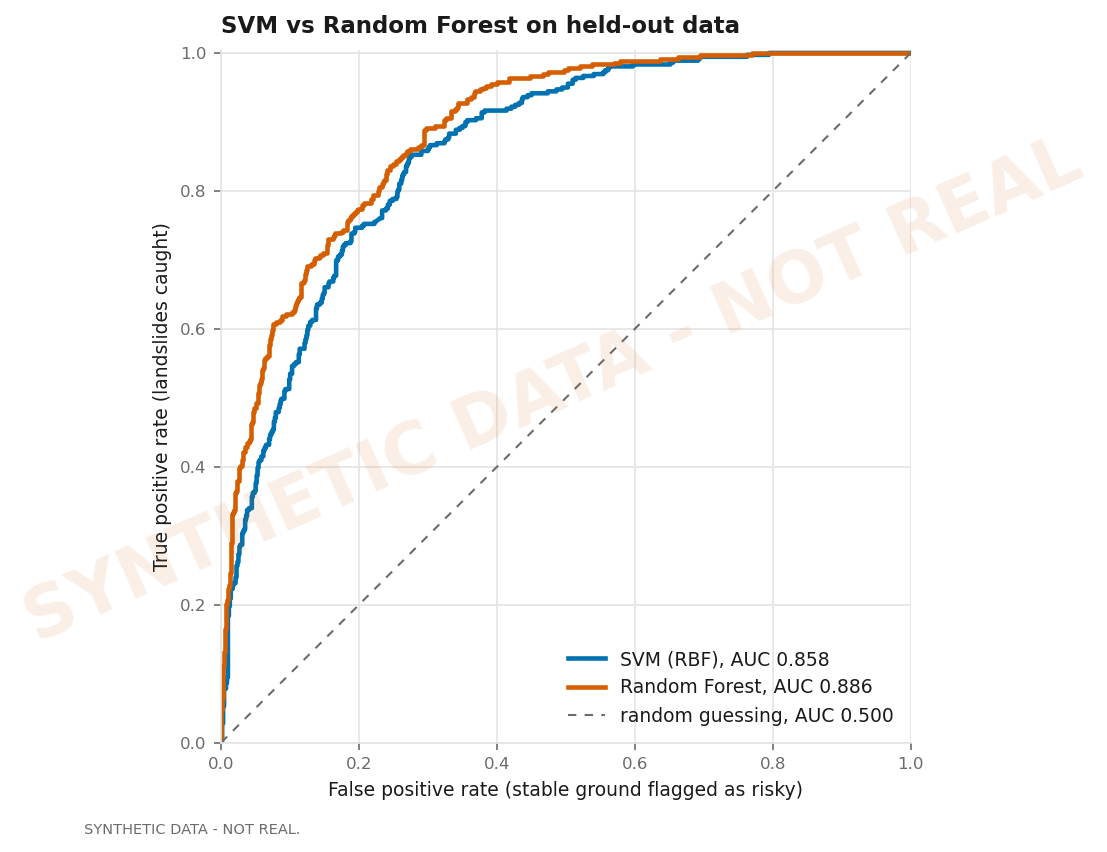
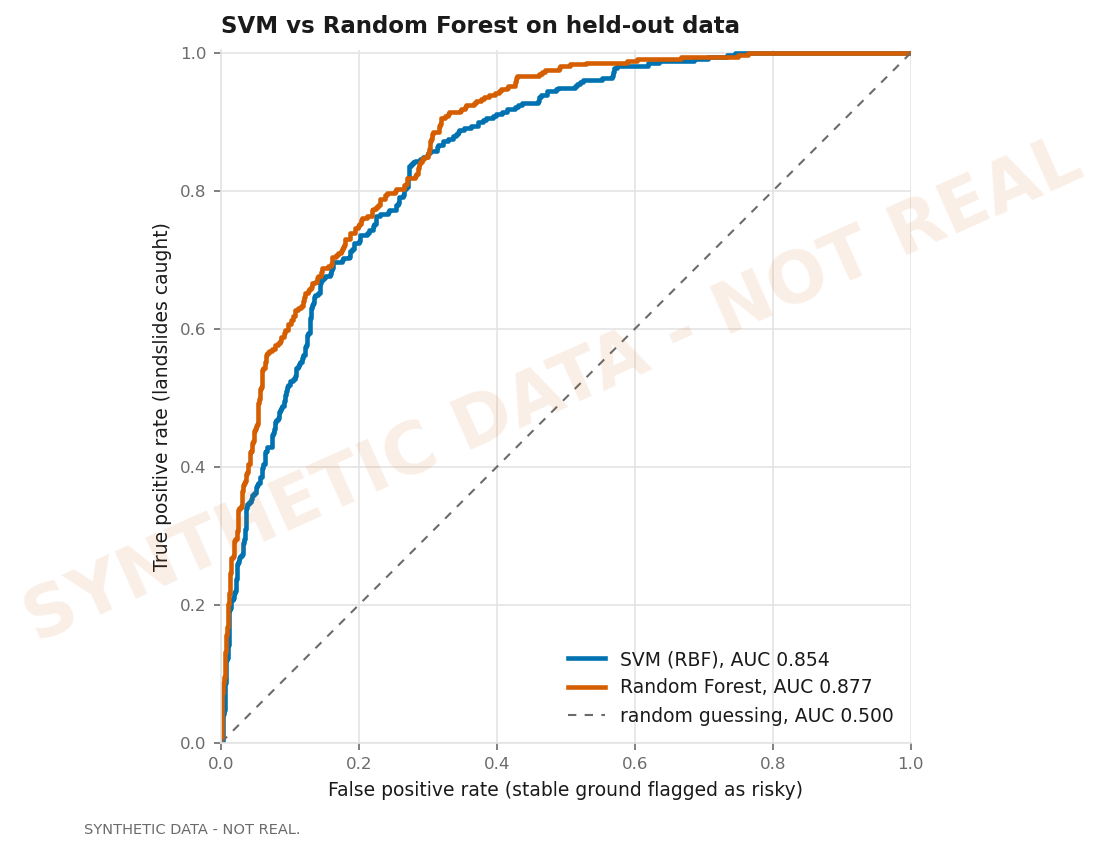
Use the most frequent class as the one-hot reference and retrain
Step 4 now leaves out the most frequent class of each categorical
factor instead of pandas' alphabetically first one, and records the
choice in metadata.json (preprocessing.categorical_reference_levels).
On a whole-state grid sample the old rule measured every land-cover
column against "Bare/sparse vegetation" (8.5 percent of the state) and
pushed lulc_Tree cover to VIF 10.1; with Tree cover as the reference no
land-cover column exceeds 4.7. prepare_for_prediction already aligns by
column name, so prediction is unchanged; demo_map no longer assumes the
first class is the reference. Checked end to end: reference rows give
all-zero dummies, other classes set only their own column.

Synthetic retrain (references Cambisols, Phyllite, Forest): highest VIF
3.29 (was 5.65); SVM test AUC 0.8541, RF 0.8767, gap +0.0224 (95%
interval +0.0082 to +0.0386). RF moved by less than one standard error
and the grid picked different settings, so the shift reads as noise.

Changed region(s): [[0.1843, 0.061, 0.6757, 0.8239], [0.7678, 0.7934, 0.7986, 0.8239], [0.7371, 0.7629, 0.7678, 0.7934]]

diff --git a/src/preprocess.py b/src/preprocess.py
@@ -103,17 +103,47 @@ def engineer_aspect(df: pd.DataFrame) -> pd.DataFrame:
     return df
 
 
-def encode_categoricals(df: pd.DataFrame) -> pd.DataFrame:
-    """Step 2. One dummy column per class, minus one per feature.
+def reference_levels(df: pd.DataFrame) -> dict[str, str]:
+    """The class each categorical feature is measured against: its most frequent class.
 
-    drop_first matters here: keeping every level makes the dummies add up to 1, which is perfect
+    Ties go to the alphabetically first name, so the choice is identical on every run.
+    """
+    references = {}
+    for col in config.active_categorical_features():
+        if col not in df.columns:
+            continue
+        counts = df[col].dropna().astype(str).value_counts()
+        references[col] = sorted(counts.index, key=lambda name: (-counts[name], name))[0]
+    return references
+
+
+def encode_categoricals(df: pd.DataFrame) -> tuple[pd.DataFrame, dict[str, str]]:
+    """Step 2. One dummy column per class, minus the most frequent class of each feature.
+
+    Leaving one class out matters: keeping every class makes the dummies add up to 1, which is perfect
     collinearity, and the VIF in the next step would come back as infinity.
+
+    Which class is left out matters too. Every dummy is measured against it, in the VIF step and in how
+    a model reads the column. pandas' drop_first leaves out the alphabetically first class, which for
+    ESA WorldCover is "Bare/sparse vegetation", 8.5 percent of the state. Measured on a whole-state grid
+    sample (14 September 2026): against that reference, lulc_Tree cover (54 percent of cells) had a VIF
+    of 10.1, above the threshold. With Tree cover as the reference, no land-cover column went above 4.7.
+    The most frequent class is the natural baseline, so it is the one left out.
+
+    Counting classes before the split looks at the whole dataset, like the median fill in step 1. It only
+    decides which column is left out, never a value a model is trained on.
     """
     present = [c for c in config.active_categorical_features() if c in df.columns]
-    out = pd.get_dummies(df, columns=present, drop_first=True, dtype=float)
+    references = reference_levels(df)
+    frame = df.copy()
+    frame[present] = frame[present].astype(str)
+    out = pd.get_dummies(frame, columns=present, dtype=float)
+    out = out.drop(columns=[f"{col}_{references[col]}" for col in present])
     added = [c for c in out.columns if c not in df.columns]
     print(f"  {len(present)} categorical column(s) became {len(added)} dummy columns")
-    return out
+    for col in present:
+        print(f"    {col}: reference class {references[col]!r} (most frequent), all zeros in the dummy columns")
+    return out, references
 
 
 def vif_prune(X: pd.DataFrame) -> tuple[pd.DataFrame, list[dict]]:
@@ -157,7 +187,7 @@ def main() -> int:
 
     print("[2] Encoding")
     df = engineer_aspect(df)
-    encoded = encode_categoricals(df)
+    encoded, references = encode_categoricals(df)
     y = encoded[config.TARGET].astype(int)
     X = encoded.drop(columns=[config.TARGET])
 
@@ -221,7 +251,8 @@ def main() -> int:
         "sampling_artefacts_removed": artefact_note,
         "missing_values_filled": filled,
         "aspect_encoding": "sine and cosine; flat ground (-1) becomes (0, 0)",
-        "categorical_encoding": "one-hot, first level dropped",
+        "categorical_encoding": "one-hot, most frequent class of each feature left out as the reference",
+        "categorical_reference_levels": references,
         "vif_threshold": config.VIF_THRESHOLD,
         "vif_dropped": dropped,
         "vif_kept": [row for row in vif_log if row["kept"]],

diff --git a/src/demo_map.py b/src/demo_map.py
@@ -144,11 +144,16 @@ def category_lookups() -> dict[str, np.ndarray]:
 
 def training_profile(dataset: pd.DataFrame, feature_names: list[str]) -> dict:
     """What the models saw: numeric ranges, the classes they know, and a stand-in for missing layers."""
+    from src.preprocess import reference_levels
+
+    # Step 4 leaves out the most frequent class of each feature (after dropping water rows); that
+    # class is scored as all zeros, so it counts as known even though it has no column.
+    trained_rows = dataset[~dataset["lulc"].isin(EXCLUDED_LULC)] if "lulc" in dataset.columns else dataset
+    references = reference_levels(trained_rows)
     known = {}
     for col in config.active_categorical_features():
         levels = set(dataset[col].dropna().astype(str))
-        known[col] = {lvl for lvl in levels if f"{col}_{lvl}" in feature_names} | \
-                     {sorted(levels)[0]}  # the first level became the all-zero reference in Step 4
+        known[col] = {lvl for lvl in levels if f"{col}_{lvl}" in feature_names} | {references[col]}
     ranges = {col: (float(dataset[col].min()), float(dataset[col].max()))
               for col in config.active_numeric_features()}
     return {"known_classes": known, "ranges": ranges}

diff --git a/PROJECT_HANDOFF.md b/PROJECT_HANDOFF.md
@@ -301,6 +301,7 @@ If there is still no GSI data, **digitise landslide scars for Rudraprayag by han
 | Seed 42 everywhere | reproducibility |
 | TWI added to the schema, TRI left out (14 September, user's decision on measured evidence) | whole state: TWI rank correlation with slope -0.51, VIF 1.64; TRI rank correlation with slope 0.993, VIF 21.2. Both used by Chauhan et al. (2025) |
 | `dist_faults` dropped from the models (14 September, user's decision) | GEM holds 8 faults within 50 km and misses the Main Central Thrust (Rudraprayag cells 56 to 127 km from a mapped fault); on a whole-state grid sample it tracks elevation (rank correlation 0.90, elevation VIF 14.5), so Step 4 would have dropped elevation instead. Raster and CSV column still produced; restore if GSI fault lines arrive |
+| One-hot reference = most frequent class of each categorical factor (14 September, user's request) | pandas `drop_first` left out the alphabetically first class ("Bare/sparse vegetation", 8.5 percent of the state), which pushed `lulc_Tree cover` to VIF 10.1 on a whole-state grid sample; with Tree cover as the reference no land-cover column exceeds 4.7. References are recorded in `metadata.json` under `preprocessing.categorical_reference_levels`; prediction needs no change because `prepare_for_prediction` aligns columns by name |
 | Risk zones at fixed breaks 0.2, 0.4, 0.6, 0.8 | natural breaks and quantiles are recomputed per map, so a zone would mean different scores on different runs and models; quantiles force 20 percent into every zone |
 | Zone colours: one vermillion hue, light to dark | ordered classes need a sequential ramp, not green to red (fails colour-blind readers); matches the landslide colour in every figure; validated as an ordinal ramp (light end 2.19:1 on the basemap) |
 | Water cells skipped on the map | models never saw water (Step 2e and Step 4), so any score there would be invented |
@@ -312,23 +313,23 @@ If there is still no GSI data, **digitise landslide scars for Rudraprayag by han
 
 ### Preprocessing
 
-Retrained 14 September after adding TWI and dropping dist_faults. 3,600 rows in, 5 water rows dropped, 3,595 used. Missing filled: twi 8 and rainfall 17 (median), soil_type 64, lithology 39 (most frequent). 3 categorical columns to 20 dummies; **29 features** (twi in, dist_faults out); **no VIF drops** (highest lithology_Phyllite 5.65). Split: train 2,516 (836 landslide), test 1,079 (359 landslide). SMOTE on training: 1,680 / 836 to 1,680 / 1,680. Test untouched: 720 / 359.
+Retrained 14 September after adding TWI and dropping dist_faults. 3,600 rows in, 5 water rows dropped, 3,595 used. Missing filled: twi 8 and rainfall 17 (median), soil_type 64, lithology 39 (most frequent). 3 categorical columns to 20 dummies, each leaving out its most frequent class (soil Cambisols, lithology Phyllite, land cover Forest); **29 features** (twi in, dist_faults out); **no VIF drops** (highest elevation 3.29, then lithology_Alluvium 2.85 and twi 2.13). Split: train 2,516 (836 landslide), test 1,079 (359 landslide). SMOTE on training: 1,680 / 836 to 1,680 / 1,680. Test untouched: 720 / 359.
 
 ### Models
 
 | | SVM (RBF) | Random Forest |
 |---|---|---|
-| Best parameters | C=10, gamma=0.01 | max_depth 10, n_estimators 200, min_samples_split 5 |
-| CV AUC | 0.8673 | 0.8928 |
-| **Test AUC** | 0.8577 | **0.8862** |
-| Average precision | 0.7286 | 0.7936 |
-| Accuracy / precision / recall / F1 at 0.5 | 0.767 / 0.622 / 0.760 / 0.684 | 0.783 / 0.643 / 0.783 / 0.706 |
-| Landslides missed | 86 of 359 | 78 of 359 |
-| Youden threshold | 0.38 (recall 0.852) | 0.38 (recall 0.891) |
+| Best parameters | C=10, gamma=0.01 | max_depth None, n_estimators 300, min_samples_split 10 |
+| CV AUC | 0.8678 | 0.8916 |
+| **Test AUC** | 0.8541 | **0.8767** |
+| Average precision | 0.7182 | 0.7704 |
+| Accuracy / precision / recall / F1 at 0.5 | 0.767 / 0.625 / 0.752 / 0.683 | 0.789 / 0.667 / 0.730 / 0.697 |
+| Landslides missed | 89 of 359 | 97 of 359 |
+| Youden threshold | 0.38 (recall 0.844) | 0.32 (recall 0.905) |
 
-Linear SVM test AUC 0.8416 (C=100), so RBF beats linear by **+0.0161**. RF minus SVM AUC: **+0.0284**, bootstrap 95 percent interval **+0.0140 to +0.0430** (separable).
+Linear SVM test AUC 0.8414 (C=1), so RBF beats linear by **+0.0126**. RF minus SVM AUC: **+0.0224**, bootstrap 95 percent interval **+0.0082 to +0.0386** (separable). A split decision at 0.5: RF ranks better overall, but SVM misses fewer landslides at that threshold; at each model's Youden threshold RF catches more (90.5 against 84.4 percent). The verdict in `outputs/evaluation_report.txt` says so.
 
-RF top features (impurity / permutation): slope 0.2531 / 0.1236, rainfall 0.1788 / 0.0598, elevation 0.1332 / 0.0201, dist_roads 0.0713 / 0.0120, curvature 0.0648 / 0.0079. twi ranks 6th of 29 by impurity and 9th by permutation. In the synthetic data twi barely separates the classes (point-biserial r 0.03): the simulated wetness effect is small next to slope, so this says nothing about real data.
+RF top features (impurity / permutation): slope 0.2400 / 0.1180, rainfall 0.1605 / 0.0551, elevation 0.1298 / 0.0224, dist_roads 0.0767 / 0.0120, curvature 0.0703 / 0.0098. twi ranks 6th of 29 by impurity and 7th by permutation. In the synthetic data twi barely separates the classes (point-biserial r 0.03): the simulated wetness effect is small next to slope, so this says nothing about real data.
 
 How the synthetic results moved on 14 September (seed 42 throughout; adding twi regenerated the synthetic CSV, the later runs reuse it):
 
@@ -337,6 +338,9 @@ How the synthetic results moved on 14 September (seed 42 throughout; adding twi 
 | Original | 29 | 0.8304 | 0.8682 | +0.0379 (+0.0234 to +0.0529) |
 | twi added | 30 | 0.8554 | 0.8827 | +0.0271 (+0.0137 to +0.0416) |
 | twi added, dist_faults dropped | 29 | 0.8577 | 0.8862 | +0.0284 (+0.0140 to +0.0430) |
+| as above, most frequent class as one-hot reference | 29 | 0.8541 | 0.8767 | +0.0224 (+0.0082 to +0.0386) |
+
+The last change moved RF by -0.0095. That is smaller than one standard error of AUC on this test set (about 0.012 by the Hanley-McNeil formula for 359 landslides and 720 stable points). The grid search also picked different RF settings (unlimited depth, 300 trees, min split 10, against depth 10, 200 trees, min split 5). Read it as noise, not as the encoding making RF worse.
 
 ---
 
@@ -370,7 +374,7 @@ How the synthetic results moved on 14 September (seed 42 throughout; adding twi 
 - **`dist_faults` is weak**: only 4.8 percent of the state within 5 km of a fault, 61 percent beyond 50 km. It behaves like a regional gradient and could act as a disguised location. Replace with GSI structural lines if possible; if it ranks suspiciously high on real data, drop it via `DROPPED_COLUMNS`. Measured 14 September: every cell in Rudraprayag is 55.7 to 127.1 km from the nearest GEM fault (median 96.3 km), even though the Main Central Thrust crosses the district, because GEM holds active faults only. **Full real-feature VIF on a whole-state grid sample (14 September):**
   - Elevation is 14.5, above the threshold, because it tracks `dist_faults` (rank correlation 0.90). Without `dist_faults` elevation falls to 7.8.
   - Step 4's rule would have dropped elevation, the wrong column. **Resolved 14 September: `dist_faults` is in `DROPPED_COLUMNS`.**
-  - `lulc_Tree cover` (10.1) is only high because Step 4 uses the first class alphabetically as the reference; with the most common class (Tree cover) as the reference, that column disappears and no land-cover column goes above 4.7.
+  - `lulc_Tree cover` (10.1) is only high because Step 4 uses the first class alphabetically as the reference; with the most common class (Tree cover) as the reference, that column disappears and no land-cover column goes above 4.7. **Resolved 14 September: Step 4 now leaves out the most frequent class of each categorical factor.**
   - TWI is 1.73.
 - **Random train/test split** ignores spatial autocorrelation, so scores are likely optimistic; stated in the evaluation report.
 - **Stable points mean "no recorded landslide"**, not "cannot fail"; stated in the evaluation report.
@@ -414,9 +418,9 @@ python -m src.check_layers           # 11 layers aligned (twi included), nothing
 python -m src.make_synthetic         # 3,600 rows, 1,200 landslide, 2,400 stable
 python -m src.eda                    # 5 figures + outputs/eda_report.txt
 python -m src.preprocess             # 29 features, SMOTE 1,680/1,680, test 720/359
-python -m src.train_svm              # RBF CV 0.8673, test 0.8577
-python -m src.train_rf               # CV 0.8928, test 0.8862
-python -m src.evaluate               # RF wins, interval +0.0140 to +0.0430
+python -m src.train_svm              # RBF CV 0.8678, test 0.8541
+python -m src.train_rf               # CV 0.8916, test 0.8767
+python -m src.evaluate               # RF wins, interval +0.0082 to +0.0386
 python -m src.demo_map               # 2,145,236 cells scored, about 20 s, map in outputs/
 streamlit run dashboard/app.py       # four pages at http://localhost:8501
 git status -sb                       # clean, main...origin/main

diff --git a/docs/PROJECT_STATUS.md b/docs/PROJECT_STATUS.md
@@ -67,13 +67,16 @@ All on one grid: 11,123 × 10,135 cells, 30 m, EPSG:32644.
 
 | | SVM (RBF) | Random Forest |
 |---|---|---|
-| Best parameters | C=10, gamma=0.01 | depth 10, 200 trees, min split 5 |
-| CV AUC | 0.8673 | 0.8928 |
-| **Test AUC** | 0.8577 | **0.8862** |
-| Recall at 0.5 | 0.760 | 0.783 |
-| Landslides missed | 86 of 359 | 78 of 359 |
+| Best parameters | C=10, gamma=0.01 | unlimited depth, 300 trees, min split 10 |
+| CV AUC | 0.8678 | 0.8916 |
+| **Test AUC** | 0.8541 | **0.8767** |
+| Recall at 0.5 | 0.752 | 0.730 |
+| Landslides missed | 89 of 359 | 97 of 359 |
 
-Retrained 14 September with 29 features (TWI added, dist_faults dropped). RF wins by 0.0284 AUC (bootstrap 95% interval +0.0140 to +0.0430). RBF beats linear SVM by +0.0161. twi ranks 6th of 29 in RF impurity importance, 9th by permutation. Earlier today: original SVM 0.8304, RF 0.8682; with TWI added, SVM 0.8554, RF 0.8827.
+Retrained 14 September with 29 features (TWI added, dist_faults dropped) and the most frequent class of each categorical factor as the one-hot reference (Cambisols, Phyllite, Forest). Highest VIF is now 3.29, down from 5.65.
+- RF wins by 0.0224 AUC (bootstrap 95% interval +0.0082 to +0.0386), but at the 0.5 threshold SVM misses fewer landslides. At each model's Youden threshold RF catches more (90.5% against 84.4%).
+- RBF beats linear SVM by +0.0126. twi ranks 6th of 29 in RF impurity importance, 7th by permutation.
+- Earlier today: original SVM 0.8304 and RF 0.8682; with TWI, SVM 0.8554 and RF 0.8827; after dropping dist_faults, SVM 0.8577 and RF 0.8862. The last change moved RF by less than one standard error (about 0.012), so read it as noise.
 
 ## 5. Data status
 
@@ -90,7 +93,7 @@ Retrained 14 September with 29 features (TWI added, dist_faults dropped). RF win
 - **VIF on the full real feature set** (whole-state grid sample of 588,997 cells, 14 September; lithology not included). All values below are VIF:
   - **TWI 1.73.**
   - **Elevation 14.5**, above 10, because it tracks `dist_faults`: rank correlation **0.90**. Without `dist_faults`, elevation falls to 7.8.
-  - `lulc_Tree cover` 10.1 is an encoding effect. With the most common class (Tree cover) as the reference instead of the first alphabetically, that column disappears and no land-cover column goes above 4.7.
+  - `lulc_Tree cover` 10.1 is an encoding effect. With the most common class (Tree cover) as the reference instead of the first alphabetically, that column disappears and no land-cover column goes above 4.7. **Resolved 14 September at the user's request: Step 4 now leaves out the most frequent class of each categorical factor.**
   - **Step 4's rule would have dropped elevation, the wrong column.** Resolved on 14 September at the user's request: `dist_faults` is in `DROPPED_COLUMNS`; restore it if GSI fault lines arrive.
   - Caveat: Step 4 computes VIF on sample points, not grid cells, so real Step 4 values will differ.
 - `dist_faults` is weak (4.8% of the state within 5 km of a fault, 61% beyond 50 km) and could act as a disguised location; review its importance on real data. **Measured 14 September: inside Rudraprayag the nearest GEM fault is 55.7 to 127.1 km away (median 96.3 km)**, although the Main Central Thrust crosses the district; GEM lists active faults only. In the demo district the layer is a regional gradient, not a fault proximity. GSI structural lines from Bhukosh would fix this; otherwise drop it through `DROPPED_COLUMNS`.

diff --git a/docs/literature_review.md b/docs/literature_review.md
@@ -74,7 +74,7 @@ Open access, published 12 January 2025. Read from the article's full text on 14 
 | Landslide inventory | 7,182 GSI points | GSI inventory requested through Bhukosh; NASA Global Landslide Catalog as a provisional stand-in (205 points, 85 located to within 5 km) |
 | Non-landslide sampling | Not described | 2 per landslide, at least 500 m from any landslide, never on water; set in `src/config.py` |
 | Class imbalance | Not described | SMOTE on training data only, inside each cross-validation fold. Resampling before cross-validation was measured here at CV 0.92 against test 0.69 |
-| Categorical factors | Integer codes (class 1 to 12), which gives classes an order they do not have | One-hot columns, first level dropped |
+| Categorical factors | Integer codes (class 1 to 12), which gives classes an order they do not have | One-hot columns, with the most frequent class of each factor left out as the reference |
 | Scaling | Min-max to 0 to 1; whether before or after the split is not stated | StandardScaler fitted on training rows only |
 | Multicollinearity | VIF computed, all factors kept | VIF, dropping the worst factor above 10 one at a time |
 | Tuning | RF: repeated tenfold CV with random search | Grid search, 5-fold CV on AUC, identical protocol for both models |
